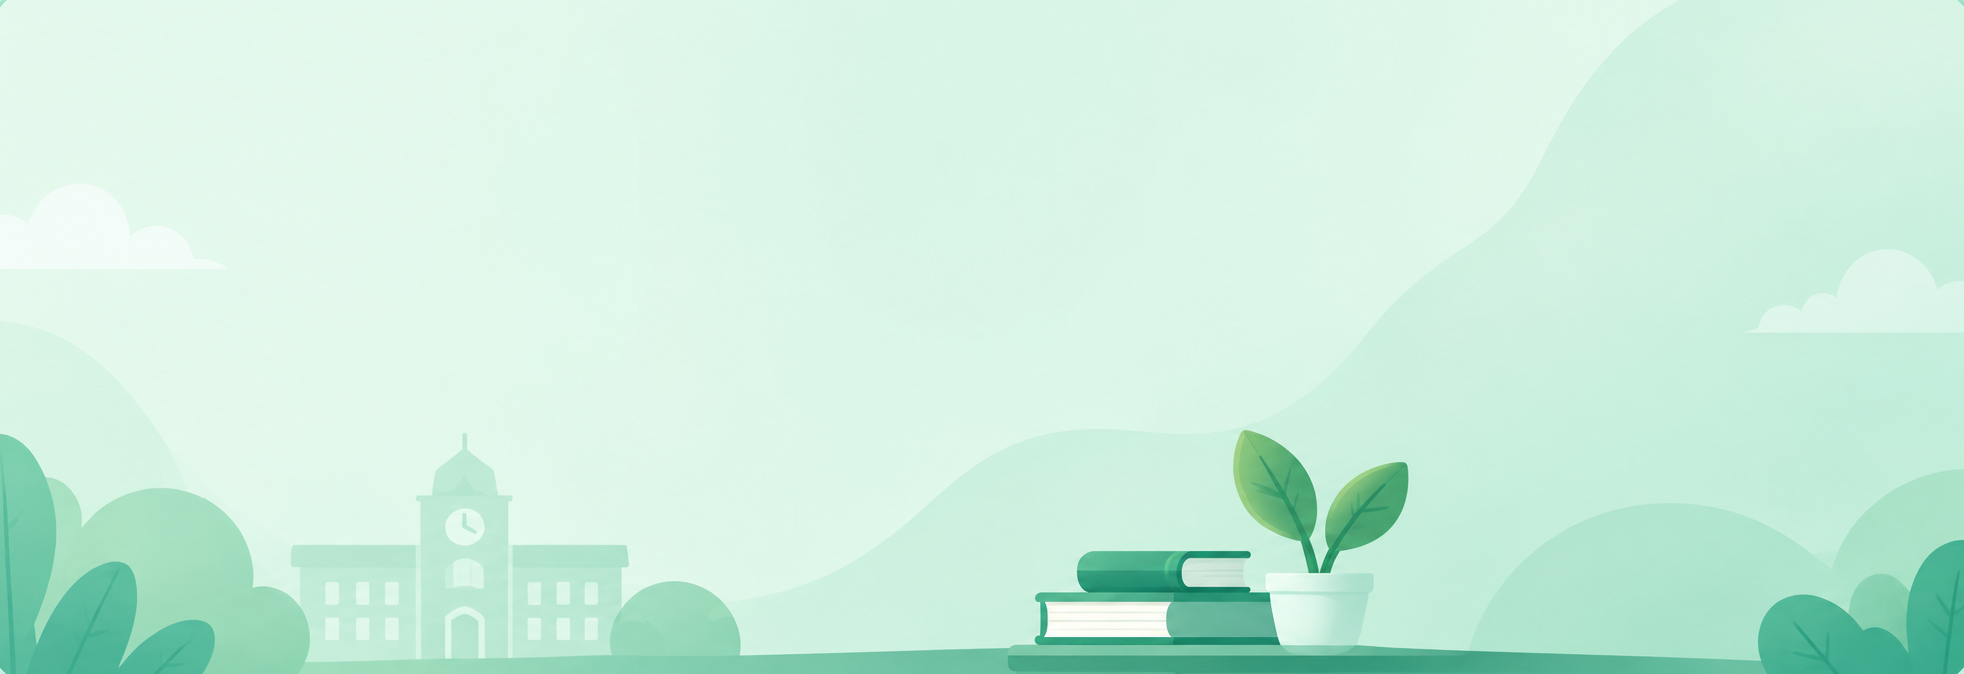
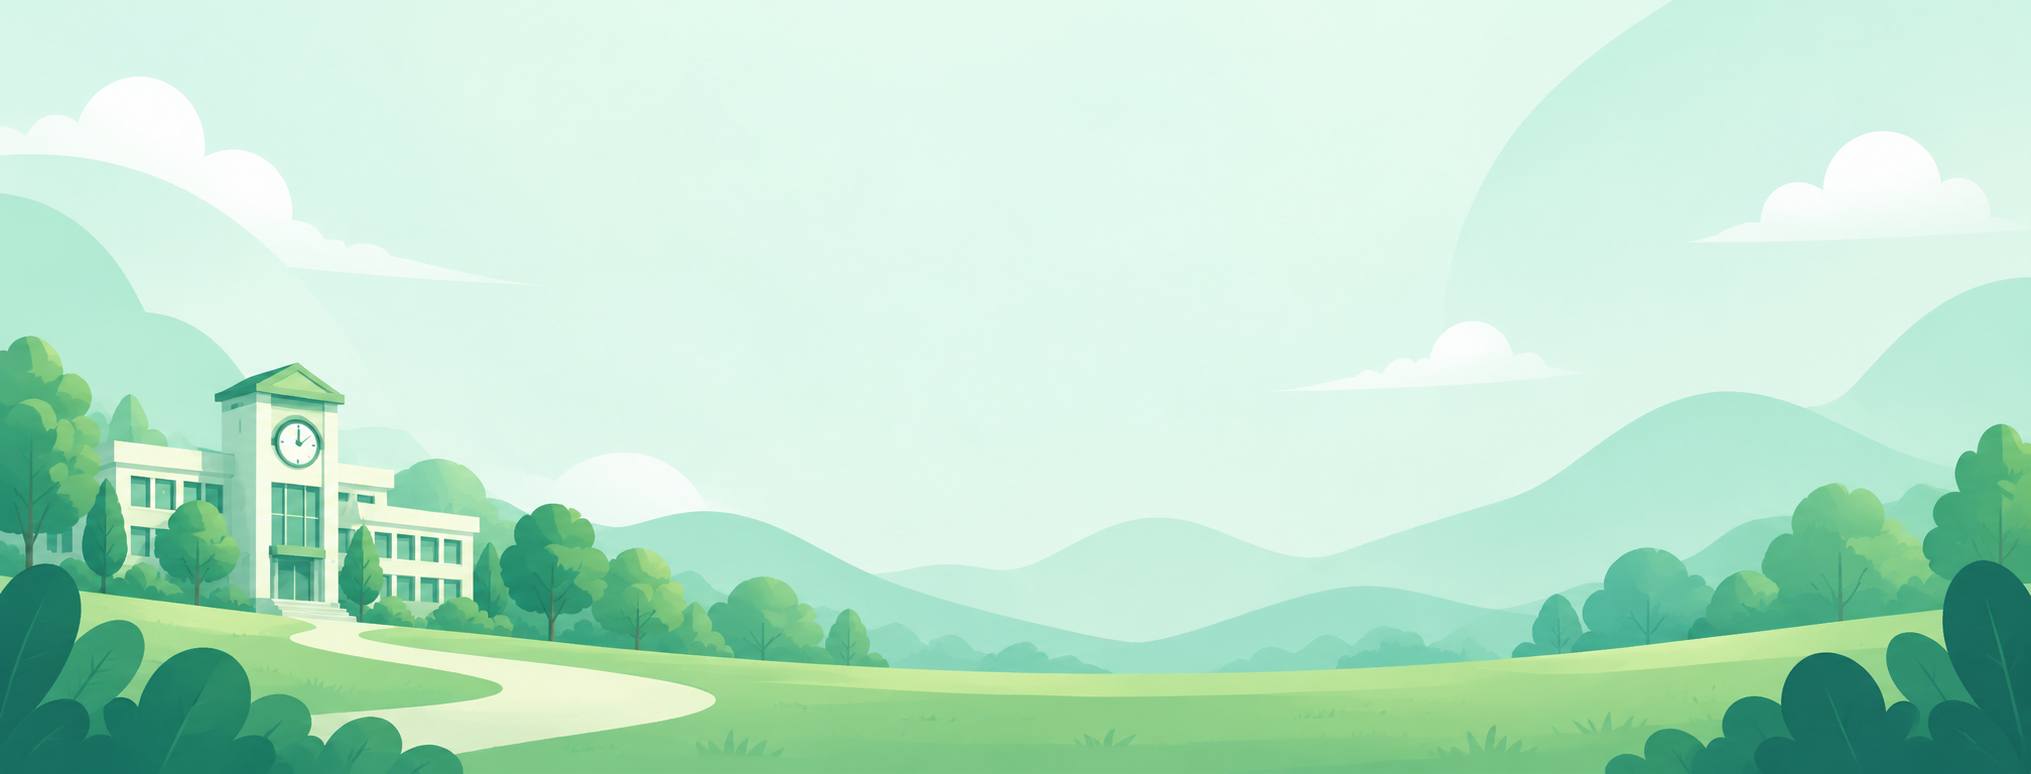
Refactor layout and spacing in planner, schedule, semester, and today pages; update images and remove unused code

diff --git a/lib/features/semester/presentation/pages/semester_page.dart b/lib/features/semester/presentation/pages/semester_page.dart
@@ -64,7 +64,7 @@ class SemesterPage extends ConsumerWidget {
               padding: const EdgeInsets.fromLTRB(20, 14, 20, 120),
               children: [
                 _Header(now: now),
-                const SizedBox(height: 18),
+                const SizedBox(height: 16),
                 if (hero != null) ...[
                   _ActiveHero(
                     semester: hero,
@@ -74,7 +74,7 @@ class SemesterPage extends ConsumerWidget {
                     onManage: () =>
                         showSemesterSheet(context, existing: hero),
                   ),
-                  const SizedBox(height: 18),
+                  const SizedBox(height: 14),
                 ],
                 ...visible.map((sem) => Padding(
                       padding: const EdgeInsets.only(bottom: 14),
@@ -141,7 +141,6 @@ class _Header extends StatelessWidget {
     final titleColor = isDark ? Colors.white : const Color(0xFF0D3B2C);
     final dateColor =
         isDark ? const Color(0xFF8FD8B3) : const Color(0xFF3B6756);
-    final subColor = isDark ? Colors.white70 : const Color(0xFF4A6B5E);
 
     return LayoutBuilder(
       builder: (context, constraints) {
@@ -170,7 +169,7 @@ class _Header extends StatelessWidget {
                   child: Image.asset(
                     'assets/images/SemesterBG.png',
                     fit: BoxFit.cover,
-                    alignment: Alignment.centerRight,
+                    alignment: Alignment.center,
                     errorBuilder: (_, __, ___) => DecoratedBox(
                       decoration: BoxDecoration(
                         gradient: LinearGradient(
@@ -197,28 +196,6 @@ class _Header extends StatelessWidget {
                       color: Colors.black.withValues(alpha: 0.35),
                     ),
                   ),
-                // Legibility veil on the left, fading out toward the mascot so
-                // the heading and subtitle stay readable over the artwork.
-                Positioned.fill(
-                  child: DecoratedBox(
-                    decoration: BoxDecoration(
-                      gradient: LinearGradient(
-                        begin: Alignment.centerLeft,
-                        end: Alignment.centerRight,
-                        colors: isDark
-                            ? [
-                                Colors.black.withValues(alpha: 0.58),
-                                Colors.black.withValues(alpha: 0.0),
-                              ]
-                            : [
-                                const Color(0xFFE9F6EE).withValues(alpha: 0.97),
-                                const Color(0xFFE9F6EE).withValues(alpha: 0.0),
-                              ],
-                        stops: const [0.0, 0.66],
-                      ),
-                    ),
-                  ),
-                ),
                 // Mascot illustration, bottom-right.
                 Positioned(
                   right: -8,
@@ -232,15 +209,13 @@ class _Header extends StatelessWidget {
                     errorBuilder: (_, __, ___) => const SizedBox.shrink(),
                   ),
                 ),
-                // Left text block.
+                // Left text block (in the sky).
                 Positioned(
-                  left: 20,
+                  left: 22,
                   top: 18,
-                  bottom: 18,
                   right: mascotWidth * 0.72,
                   child: Column(
                     crossAxisAlignment: CrossAxisAlignment.start,
-                    mainAxisAlignment: MainAxisAlignment.center,
                     children: [
                       Text(
                         DateFormat('EEEE, MMMM d').format(now),
@@ -263,19 +238,6 @@ class _Header extends StatelessWidget {
                           letterSpacing: -0.6,
                           height: 1.0,
                           color: titleColor,
-                        ),
-                      ),
-                      const SizedBox(height: 6),
-                      Text(
-                        'Plan your term and track your progress.',
-                        maxLines: 2,
-                        overflow: TextOverflow.ellipsis,
-                        style: TextStyle(
-                          fontFamily: AppTheme.fontFamily,
-                          fontSize: isCompact ? 11 : 12,
-                          fontWeight: FontWeight.w500,
-                          height: 1.25,
-                          color: subColor,
                         ),
                       ),
                     ],

diff --git a/lib/features/today/presentation/pages/today_page.dart b/lib/features/today/presentation/pages/today_page.dart
@@ -105,11 +105,6 @@ class TodayPage extends ConsumerWidget {
     final username = profile?.username.isNotEmpty == true
         ? profile!.username
         : 'there';
-    final greeting = now.hour < 12
-        ? 'Good morning'
-        : now.hour < 18
-            ? 'Good afternoon'
-            : 'Good evening';
 
     final textPrimary = isDark ? Colors.white : const Color(0xFF111827);
     final textMuted = isDark ? Colors.white60 : const Color(0xFF6B7280);
@@ -511,7 +506,6 @@ class _TodayHeroBannerState extends State<_TodayHeroBanner> {
 
     final textHeading = isDark ? Colors.white : const Color(0xFF0D3B2C);
     final textDate = isDark ? const Color(0xFF8FD8B3) : const Color(0xFF3B6756);
-    final textSubtitle = isDark ? Colors.white70 : const Color(0xFF4A6B5E);
     final bubbleBg = isDark ? const Color(0xFF152A20) : Colors.white;
     final bubbleTextTitle = isDark ? Colors.white : const Color(0xFF103A2B);
     final bubbleTextBody = isDark ? Colors.white70 : const Color(0xFF4A6B5E);
@@ -581,15 +575,13 @@ class _TodayHeroBannerState extends State<_TodayHeroBanner> {
                   ),
                 ),
 
-                // 3. Left Text Section (Good morning, Date, Underline, Goals)
+                // 3. Left Text Section (Good morning/afternoon, Date, Clock)
                 Positioned(
                   left: 18,
-                  top: 12,
-                  bottom: 12,
+                  top: 14,
                   width: textWidth,
                   child: Column(
                     crossAxisAlignment: CrossAxisAlignment.start,
-                    mainAxisAlignment: MainAxisAlignment.center,
                     children: [
                       Text(
                         '$greetingWord1\n$greetingWord2',
@@ -602,7 +594,7 @@ class _TodayHeroBannerState extends State<_TodayHeroBanner> {
                           letterSpacing: -0.5,
                         ),
                       ),
-                      const SizedBox(height: 5),
+                      const SizedBox(height: 6),
                       Wrap(
                         crossAxisAlignment: WrapCrossAlignment.center,
                         spacing: 8,
@@ -635,28 +627,6 @@ class _TodayHeroBannerState extends State<_TodayHeroBanner> {
                             ],
                           ),
                         ],
-                      ),
-                      const SizedBox(height: 4),
-                      Container(
-                        width: 34,
-                        height: 2.5,
-                        decoration: BoxDecoration(
-                          color: const Color(0xFF1B8755),
-                          borderRadius: BorderRadius.circular(2),
-                        ),
-                      ),
-                      const SizedBox(height: 6),
-                      Text(
-                        'Keep up the great work!\nYour goals are within reach.',
-                        maxLines: 2,
-                        overflow: TextOverflow.ellipsis,
-                        style: TextStyle(
-                          fontFamily: AppTheme.fontFamily,
-                          fontSize: isCompact ? 10 : 11,
-                          fontWeight: FontWeight.w500,
-                          color: textSubtitle,
-                          height: 1.25,
-                        ),
                       ),
                     ],
                   ),

diff --git a/lib/features/item/presentation/pages/planner_page.dart b/lib/features/item/presentation/pages/planner_page.dart
@@ -251,18 +251,20 @@ class _PlannerCalendarHero extends StatelessWidget {
             alignment: Alignment.center,
           ),
           Positioned(
-            right: -24,
-            bottom: -22,
-            width: 218,
+            right: 2,
+            bottom: -16,
+            top: 16,
+            width: 205,
             child: Image.asset(
               'assets/images/Calendar.png',
               fit: BoxFit.contain,
+              alignment: Alignment.bottomRight,
             ),
           ),
           Positioned(
-            left: 24,
-            top: 24,
-            width: 190,
+            left: 22,
+            top: 16,
+            right: 200,
             child: Column(
               crossAxisAlignment: CrossAxisAlignment.start,
               children: [
@@ -274,16 +276,16 @@ class _PlannerCalendarHero extends StatelessWidget {
                     letterSpacing: 0.8,
                   ),
                 ),
-                const SizedBox(height: 4),
+                const SizedBox(height: 3),
                 Text(
                   'Calendar',
                   style: Theme.of(context).textTheme.headlineMedium?.copyWith(
                     color: const Color(0xFF0D3B2C),
                     fontWeight: FontWeight.w900,
-                    height: 1,
+                    height: 1.05,
                   ),
                 ),
-                const SizedBox(height: 6),
+                const SizedBox(height: 4),
                 Text(
                   'Plan today. A better tomorrow.',
                   style: Theme.of(context).textTheme.bodySmall?.copyWith(

diff --git a/lib/features/schedule/presentation/pages/schedule_page.dart b/lib/features/schedule/presentation/pages/schedule_page.dart
@@ -270,18 +270,20 @@ class _CalendarHero extends StatelessWidget {
             alignment: Alignment.center,
           ),
           Positioned(
-            right: -42,
-            bottom: -34,
-            width: 260,
+            right: 2,
+            bottom: -16,
+            top: 16,
+            width: 205,
             child: Image.asset(
               'assets/images/Calendar.png',
               fit: BoxFit.contain,
+              alignment: Alignment.bottomRight,
             ),
           ),
           Positioned(
-            left: 24,
-            top: 22,
-            width: 180,
+            left: 22,
+            top: 16,
+            right: 200,
             child: Column(
               crossAxisAlignment: CrossAxisAlignment.start,
               children: [
@@ -293,16 +295,16 @@ class _CalendarHero extends StatelessWidget {
                     letterSpacing: 0.8,
                   ),
                 ),
-                const SizedBox(height: 4),
+                const SizedBox(height: 3),
                 Text(
                   'Calendar',
                   style: Theme.of(context).textTheme.headlineMedium?.copyWith(
                     color: const Color(0xFF0D3B2C),
                     fontWeight: FontWeight.w900,
-                    height: 1,
+                    height: 1.05,
                   ),
                 ),
-                const SizedBox(height: 6),
+                const SizedBox(height: 4),
                 Text(
                   'Plan today. A better tomorrow.',
                   style: Theme.of(context).textTheme.bodySmall?.copyWith(
